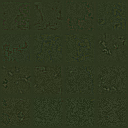
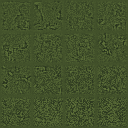
Repaint the three flat ground atlases; the rim is ember crust again
The Lv50 rim renders at luma 29-35 and I said last time that no filter could
lift it because the art itself is ~50. Measuring properly found the sharper
version of that: terr_4/5/8 are luma 51.9 / 52.1 / 49.3 with a standard
deviation of about FIVE. They are not merely dark, they are nearly FLAT -- one
colour carrying fine speckle -- and brightening a flat field only gives a
brighter flat field. This is the one class of ground problem that no tone, drift
or blend can reach, so the files themselves got repainted.

  terr_4 Wolfwood      luma 51.9 -> 76.0   std 4.7 -> 10.8
  terr_5 Deep Timber   luma 52.1 -> 68.0   std 5.6 ->  9.4
  terr_8 The Ashfall   luma 49.3 -> 69.1   std 5.4 -> 11.2

Deep Timber is deliberately lifted least: its own comment calls it "deep shade"
and it should stay the darkest of the three.

AND terr_8 WAS THE WRONG COLOUR ENTIRELY. It measured neutral grey (47,50,47)
while TERR_ACCENT in 08_render.js has called that band "ember crust" at
(112,52,26) the whole time. The art and the palette written for it had drifted
apart; the ground is now the colour the rest of the code already believed it was.

THE REMAP IS POINTWISE, and that is a correctness property rather than a style
choice: every pixel's new colour depends only on its own luminance. These sheets
are seamless and tile against themselves and each other, so any neighbourhood
operation -- blur, sharpen, added low-frequency structure -- would break the wrap
[…]

diff --git a/sw.js b/sw.js
@@ -5,7 +5,7 @@
 // content-addressed by filename and changes when a file changes, so it needs its own version
 // that moves only when the art does.
 const CODE_CACHE = 'emberrealm-code-v552';   // bump freely; holds html/css/js only
-const ART_CACHE  = 'emberrealm-art-v2';      // bump ONLY when art is added/replaced
+const ART_CACHE  = 'emberrealm-art-v3';      // bump ONLY when art is added/replaced
 const CACHE = CODE_CACHE;                    // install/precache target
 const ASSETS = ['.', 'index.html', 'manifest.webmanifest', 'icon-192.png', 'icon-512.png'];
 // Media, wherever it lives. Deliberately keyed on the EXTENSION and not on the folder: the first

diff --git a/tools/repaint_terrain.py b/tools/repaint_terrain.py
@@ -1,0 +1,137 @@
+#!/usr/bin/env python
+"""
+Repaint the three dark ground atlases.
+
+WHY. Measured, terr_4/5/8 are luma 51.9 / 52.1 / 49.3 with a standard deviation of about FIVE.
+That second number is the real complaint: they are not merely dark, they are nearly flat -- a
+single colour carrying a little per-pixel speckle -- so no render-time filter can rescue them.
+Brightening a flat field gives a brighter flat field. They needed new paint, and the Lv50 rim
+(band 8) is where the endgame lives, so it is the worst place in the game to have it.
+
+terr_8 is also neutral grey (47,50,47) while its own TERR_ACCENT entry in 08_render.js calls it
+"ember crust" at (112,52,26). The art and the palette it was written for had drifted apart; this
+brings the ground back to the colour the rest of the code already believes it is.
+
+HOW, and why it is safe. The remap is POINTWISE: every pixel's new colour depends only on its own
+luminance, never on its neighbours. That matters more than it sounds -- these sheets are seamless
+and tile against themselves and each other, and any neighbourhood operation (blur, sharpen, added
+low-frequency structure) would break the wrap at the cell edges. A pointwise curve cannot.
+
+Each atlas gets a two-point ramp, shadow -> highlight, and each pixel's luminance decides where on
+that ramp it lands. Contrast is set by how much of the ramp the original's own spread is stretched
+across: SPAN below 1.0 deliberately holds back from the ends, because mapping a std-5 speckle field
+to the full ramp turns fine grain into television static.
+
+ORIGINALS ARE KEPT. First run copies each source to assets/tiles/orig/ and every run reads from
+there, so this is reproducible, re-tunable and reversible -- run with --restore to put the
+originals back. Re-running never compounds.
+
+USAGE
+    py tools/repaint_terrain.py            # repaint from the originals
+    py tools/repaint_terrain.py --report   # measure only, change nothing
+    py tools/repaint_terrain.py --restore  # put the originals back
+"""
+
+import os
+import shutil
+import sys
+
+from PIL import Image
+
+ROOT = os.path.dirname(os.path.dirname(os.path.abspath(__file__)))
+TILES = os.path.join(ROOT, "assets", "tiles")
+ORIG = os.path.join(TILES, "orig")
+
+# band -> (shadow rgb, highlight rgb, span)
+# `span` is how much of the ramp the source's own +/-2.5 sigma is stretched across. 1.0 would use
+# the whole ramp and read as static on a field this fine-grained.
+PLAN = {
+    # Wolfwood: forest floor under canopy. Stays a shaded green -- it is a wood, not a lawn --
+    # but with enough range between litter and lit moss to read as ground rather than as paper.
+    4: ((30, 40, 24), (104, 124, 62), 0.72),
+    # Deep Timber: "deep shade" by design and the darkest of the three on purpose. Lifted only
+    # as far as it takes to see the ground, and kept cool and mossy.
+    5: ((24, 36, 26), (86, 112, 66), 0.68),
+    # The Ashfall and the whole Lv50 rim: ember crust. This is the big move -- from neutral grey
+    # to the warm ash TERR_ACCENT already describes, with heat in the highlights.
+    8: ((42, 28, 24), (168, 96, 52), 0.80),
+}
+
+LUMA = (0.2126, 0.7152, 0.0722)
+
+
+def stats(im):
+    px = list(im.convert("RGB").getdata())
+    n = len(px)
+    lum = [LUMA[0] * p[0] + LUMA[1] * p[1] + LUMA[2] * p[2] for p in px]
+    m = sum(lum) / n
+    sd = (sum((x - m) ** 2 for x in lum) / n) ** 0.5
+    r = sum(p[0] for p in px) / n
+    g = sum(p[1] for p in px) / n
+    b = sum(p[2] for p in px) / n
+    return m, sd, (r, g, b)
+
+
+def ensure_orig(band):
+    src = os.path.join(TILES, "terr_%d.png" % band)
+    keep = os.path.join(ORIG, "terr_%d.png" % band)
+    if not os.path.isdir(ORIG):
+        os.makedirs(ORIG)
+    if not os.path.exists(keep):
+        shutil.copy2(src, keep)
+    return keep
+
+
+def repaint(band):
+    keep = ensure_orig(band)
+    im = Image.open(keep)
+    alpha = im.split()[3] if im.mode == "RGBA" else None
+    rgb = im.convert("RGB")
+    m, sd, _ = stats(rgb)
+    shadow, high, span = PLAN[band]
+
+    lo = m - 2.5 * sd
+    rng = 5.0 * sd
+    mid = (1.0 - span) / 2.0
+
+    px = list(rgb.getdata())
+    out = []
+    for p in px:
+        l = LUMA[0] * p[0] + LUMA[1] * p[1] + LUMA[2] * p[2]
+        t = (l - lo) / rng if rng > 1e-6 else 0.5
+        t = 0.0 if t < 0 else (1.0 if t > 1 else t)
+        t = mid + t * span                      # hold back from both ends of the ramp
+        out.append(tuple(
+            int(round(shadow[c] + (high[c] - shadow[c]) * t)) for c in range(3)))
+    new = Image.new("RGB", rgb.size)
+    new.putdata(out)
+    if alpha is not None:
+        new = new.convert("RGBA")
+        new.putalpha(alpha)
+    dest = os.path.join(TILES, "terr_%d.png" % band)
+    new.save(dest)
+    return stats(new)
+
+
+if __name__ == "__main__":
+    if "--restore" in sys.argv:
+        for b in PLAN:
+            keep = os.path.join(ORIG, "terr_%d.png" % b)
+            if os.path.exists(keep):
+                shutil.copy2(keep, os.path.join(TILES, "terr_%d.png" % b))
+                print("restored terr_%d" % b)
+        sys.exit(0)
+
+    report_only = "--report" in sys.argv
+    for b in sorted(PLAN):
+        before = stats(Image.open(os.path.join(TILES, "terr_%d.png" % b)))
+        if report_only:
+            print("terr_%d  luma %5.1f  std %5.2f  rgb(%3.0f,%3.0f,%3.0f)"
+                  % (b, before[0], before[1], before[2][0], before[2][1], before[2][2]))
+            continue
+        after = repaint(b)
+        print("terr_%d  luma %5.1f -> %5.1f   std %5.2f -> %5.2f   "
+              "rgb(%3.0f,%3.0f,%3.0f) -> (%3.0f,%3.0f,%3.0f)"
+              % (b, before[0], after[0], before[1], after[1],
+                 before[2][0], before[2][1], before[2][2],
+                 after[2][0], after[2][1], after[2][2]))

diff --git a/HANDOFF.md b/HANDOFF.md
@@ -308,6 +308,25 @@ move into `grvBandAt`, which answers for the creature roster, the tile's level, 
 and the danger seam. Warping that would walk a spawn point into the next province and take the mob
 list and the level with it.
 
+**A FLAT ATLAS CANNOT BE FIXED AT RENDER TIME — repaint the file.** `terr_4/5/8` measured luma
+51.9 / 52.1 / 49.3 with a standard deviation of about **five**: not merely dark but nearly flat, a
+single colour carrying fine speckle. Brightening a flat field only gives a brighter flat field, so
+this is the one class of ground problem no filter, tone or drift can reach. `tools/repaint_terrain.py`
+remaps them onto a two-point ramp (shadow → highlight) chosen per band, lifting them to luma
+76 / 68 / 69 at std 9-11. `terr_8` also went from neutral grey (47,50,47) to the warm ember crust
+its own `TERR_ACCENT` entry (112,52,26) had always claimed — the art and the palette written for it
+had drifted apart.
+- **The remap is POINTWISE and must stay that way.** Every pixel's new colour depends only on its
+  own luminance. These sheets are seamless and tile against themselves and each other, so any
+  neighbourhood operation — blur, sharpen, added low-frequency structure — breaks the wrap at the
+  cell edges. A pointwise curve cannot.
+- **Originals live in `assets/tiles/orig/`** and the script always reads from there, so re-running
+  never compounds, the numbers are re-tunable, and `--restore` puts them back.
+- **Bump `ART_CACHE`, not `CODE_CACHE`**, when these change. That split exists for exactly this.
+- **The corruption stain is what now caps the rim.** With the new paint the rim provinces still
+  render at luma ~40 against an atlas of 69, because `corruptAt` reaches 0.88 out there and the
+  stain is `cor²·0.6` plus a magenta pulse. The art is no longer the limiting factor; the stain is.
+
 **A tone correction belongs to the sheet it was written for.** `_bandTone` corrects four PixelLab
 `set_N` palettes; it is gated on the atlas fallback path because the later `terr_N` atlases are
 different art with none of those faults. Ungated, it painted band 0's grass wash over band 0's
